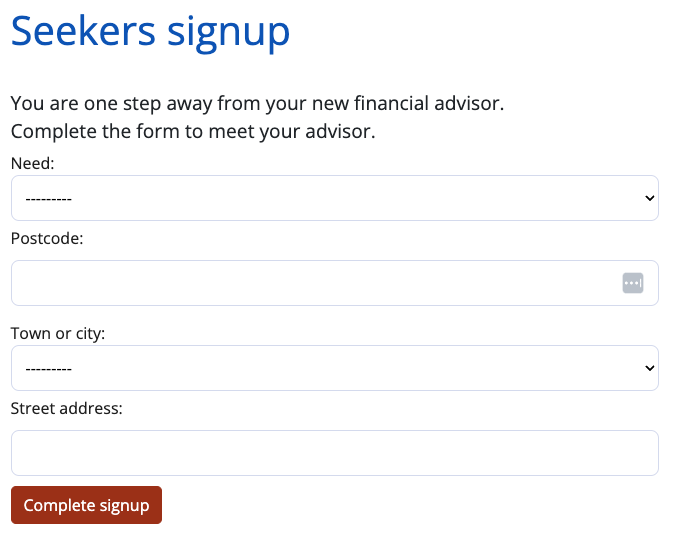
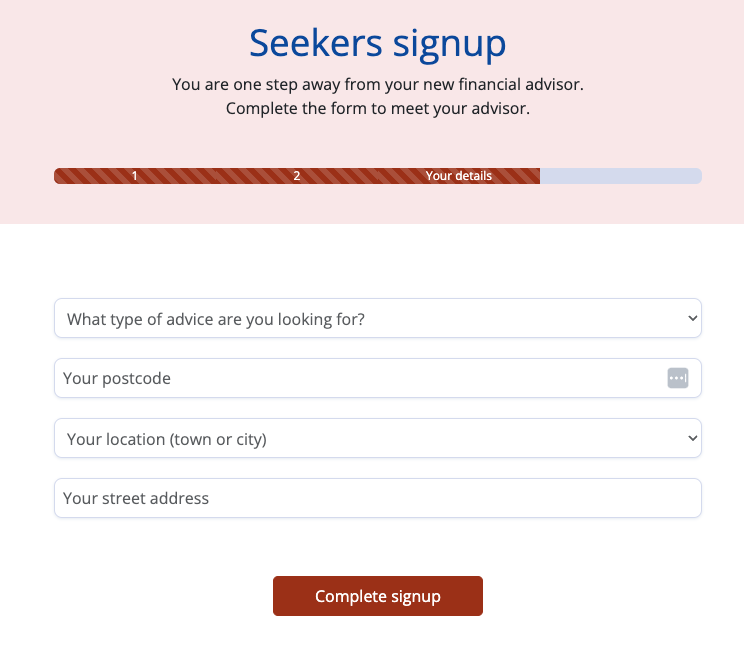
Add features images in readme

diff --git a/templates/errors/404.html b/templates/errors/404.html
@@ -1,5 +1,10 @@
 {% extends 'base.html' %}
 {% load static %}
+
+{% block extra_title %}
+404 page not found
+{% endblock %}
+
 {% block white_bg_content %}
 <section>
     <div class="container">

diff --git a/templates/errors/500.html b/templates/errors/500.html
@@ -1,5 +1,10 @@
 {% extends 'base.html' %}
 {% load static %}
+
+{% block extra_title %}
+500 server error
+{% endblock %}
+
 {% block white_bg_content %}
 
 <section>

diff --git a/static/css/base.css b/static/css/base.css
@@ -297,6 +297,7 @@ label[for="id_body"] {
 .icon-text-size {
     height: 80px;
     width: 80px;
+    margin: auto;
 }
 
 .services {

diff --git a/home/views.py b/home/views.py
@@ -1,4 +1,4 @@
-from django.shortcuts import render, redirect
+from django.shortcuts import render, redirect, reverse
 from django.contrib.auth.decorators import login_required
 from django.contrib import messages
 
@@ -40,20 +40,23 @@ def advisor_seeker(request):
 
         elif not form.is_valid():
             messages.error(request, 'Signup not completed. Try again.')
-            return redirect('choice')
+            return redirect(reverse('choice'))
 
-    else:
+    elif request.method == 'GET':
         # function to decide what page to show to users depending on:
         # - their user profile exists or not
         # - their user_type
         # - they have completed the advisor / seeker signup form
-        return choose_the_page_to_return_to_user(request)
+        user_profile = UserProfile.objects.filter(user=request.user)
 
-    form = UserTypeForm()
+        if user_profile:
+            return choose_the_page_to_return_to_user(request)
 
-    context = {
-        'form': form,
-        'page_title': 'Are you Advisor or Seeker?'
-    }
+        form = UserTypeForm()
+
+        context = {
+            'form': form,
+            'page_title': 'Are you Advisor or Seeker?'
+        }
 
     return render(request, 'home/advisor-or-seeker.html', context)

diff --git a/home/utils.py b/home/utils.py
@@ -27,7 +27,7 @@ def choose_the_page_to_return_to_user(request):
 
             # If it's advisor, check advisor profile has been created.
             # If not, create one.
-            if AdvisorUserProfile.objects.filter(user=request.user).exists():
+            if AdvisorUserProfile.objects.filter(user=request.user):
 
                 # check the profile is approved. If so show clients.
                 # If not, show profile
@@ -46,10 +46,10 @@ def choose_the_page_to_return_to_user(request):
             # If seeker profile exists,
             # check whether an advisor has been assigned
 
-            if SeekerUserProfile.objects.filter(user=request.user).exists():
+            if SeekerUserProfile.objects.filter(user=request.user):
 
                 seeker = get_seeker_by_request_user(request)
-
+                print(seeker)
                 # If the seeker has an advisor, go to advisor page
                 # if not, go to match page
 
@@ -60,3 +60,4 @@ def choose_the_page_to_return_to_user(request):
 
             else:
                 return redirect('seeker_signup')
+

diff --git a/advisor_finder/settings.py b/advisor_finder/settings.py
@@ -33,7 +33,7 @@ SECRET_KEY = os.environ.get('SECRET_KEY')
 
 # SECURITY WARNING: don't run with debug turned on in production!
 
-DEBUG = False
+DEBUG = True
 
 ALLOWED_HOSTS = ['advisor-finder.herokuapp.com', 'localhost']
 

diff --git a/README.md b/README.md
@@ -441,46 +441,48 @@ In the following paragraphs, we are going to see what features appear on the web
 
 ### 1. Main navigation
 
-   The main navigation in different from logged in users and logged out users.
+The main navigation in different from logged in users and logged out users.
 
-   Logged out users can only see the links to login and register to the app.
+Logged out users can only see the links to login and register to the app.
 
-   Navigation is also different for users that have completed the signup process and users that haven't completed the sign up process.
+Navigation is also different for users that have completed the signup process and users that haven't completed the sign up process.
 
-   Users that haven't completed the signup process can only see a link to logout.
+Users that haven't completed the signup process can only see a link to logout.
 
-   Users that have completed the signup process see different navigation whether they are seekers or advisors.
+Users that have completed the signup process see different navigation menus whether they are seekers or advisors.
 
-   Advisors see the following links:
+Advisors see the following links:
 
-   ![Advisors nav](./media/README-files/navigation-advisor.png)  
+![Advisors nav](./media/README-files/navigation-advisor.png)  
 
-   They are self explenatory. The difference between a match and a client is that a client has accepted a consultation, a match hasn't.
+They are self explenatory.
 
-   Seekers see the following links:
+Seekers see the following links:
 
-   ![Advisors nav](./media/README-files/navigation-seeker.png)  
+![Advisors nav](./media/README-files/navigation-seeker.png)  
 
 
 ### 2. The signup - User creation
 
 The first part of the signup process requires the user to create an account with their personal informations.
 
-   ![Advisors nav](./media/README-files/navigation-seeker.png)  
+![Advisors nav](./media/README-files/navigation-seeker.png)  
 
 ### 2. The signup - User choice
 
 The second part of the signup process requires users to select whether they are a seekers or advisors.
+
+[Signup 2](./media/README-files/signup-two.png)  
 
 ### 2. The signup - Seeker or advisor profile creation
 
 The third step of the signup process requires users to complete the seeker or advisor forms with information specific to each user type.
 
 **Advisor form**
-   ![Advisors nav](./media/README-files/advisor-form.png)  
+![Advisors form](./media/README-files/advisor-form.png)  
 
 **Seeker form**
-   ![Advisors nav](./media/README-files/seeker-form.png)  
+![Seekers form](./media/README-files/seeker-form.png)  
 
 
 ### 3. The matching page
@@ -505,7 +507,14 @@ Currently, the seekers can't be rematched. This feature can be added in the futu
 
 ### 4. The seeker profile
 
-On this page, the seeker can review their generalities and update them if needed.
+On this page, the seeker can review their profile details and update them if needed.
+
+They can also cancel their profiles.
+
+A defensive desing popup will ask to confirm both the actions.
+
+![Seeker profile](./media/README-files/seeker-profile.png)  
+
 
 ### 5. The seeker's advisor
 
@@ -517,11 +526,17 @@ On this same page, on the consultation proposals, the seeker can accept the cons
 
 Only after the checkout is completed, the seeker receives the video conference link to meeet the advisor on the date agreed.
 
+![Seeker's advisor](./media/README-files/seeker-advisor.png)  
+
+
 ### 6. The checkout
 
 On the checkout page, the seekers can review their fees, their personal details and pay.
 
 The checkout page doesn't appear if there are not consultations to checkout.
+
+![Checkout](./media/README-files/checkout.png)
+
 
 ### 7. The checkout success
 
@@ -530,6 +545,9 @@ After the checkout is completed, the user sees a checkout completed page with a 
 They receive an email with the details of the consultation.
 
 The can now see the meeting link also on their advisor's consultation proposal.
+
+![Checkout success](./media/README-files/checkout-success.png)
+
 
 ### 8. The advisor profile page
 
@@ -543,6 +561,9 @@ From this page, the advisor can deactivate their profile. Deactivating the profi
 
 The advisor can't cancel their profile as the seekers will need to be re-matched. This fetuare could be developed on a future sprint.
 
+![Advisor profile page](./media/README-files/advisor-profile-page.png)
+
+
 ### 9. The advisor's appointments page
 
 On this page, the advisors can see all the appointment they have scheduled and their status. An appointment must be paid by 
@@ -550,13 +571,19 @@ the seeker before it's confirmed.
 
 From this page the advisor can also navigate to the seeker's profile pages.
 
-### 10. The adviror's seekers profiles
+![Advisor appointments page](./media/README-files/appointments.png)
+
+
+### 10. The adviror's client profiles
 
 On their client personal pages, the advisor can see all the main details about a client as well a schedule a meeting and send a normal message.
 
 The advisor can schedule only 1 meeting at a time. If their is a consultation pending confirmation, the option to schedule another meeting is disabled.
 
 On this page the advisor also see the full conversation wit the client.
+
+![Advisor's client profile page](./media/README-files/client-profile.png)
+
 
 ### 11. The consultation scheduler
 With the meeting scheduler, the advisor can schedule a meeting with the seeker.
@@ -567,9 +594,15 @@ The meeting link is automatically generated with a thid party tool https://gotal
 
 The seeker receives the meeting link after the payment is completed.
 
+![Consultation scheduler](./media/README-files/consultation-scheduler.png)
+
+
 ### 12. The clients page
 
 On the clients page, the advisor sees a list of all of their clients, and a link to go to their personal profiles.
+
+![Advisor clients page](./media/README-files/clients.png)
+
 
 ### 13. Login
 
@@ -591,13 +624,13 @@ The application let the users know every time they perform an action whether it 
 
 The 404 and 500 error pages handle errors nicely explaining to the user what is happening and offering a way to exit the error.
 
-[Custom 404 page](./media/README-files/404.png)  
+![Custom 404 page](./media/README-files/404.png)  
 
 ### 16. Admin advisor approval
 
 The admin can approve an andvisor from the admin panel
 
-[Advisor approval](./media/README-files/advisor-approval.png)  
+![Advisor approval](./media/README-files/advisor-approval.png)  
 
 ## Where user stories meet features
 
